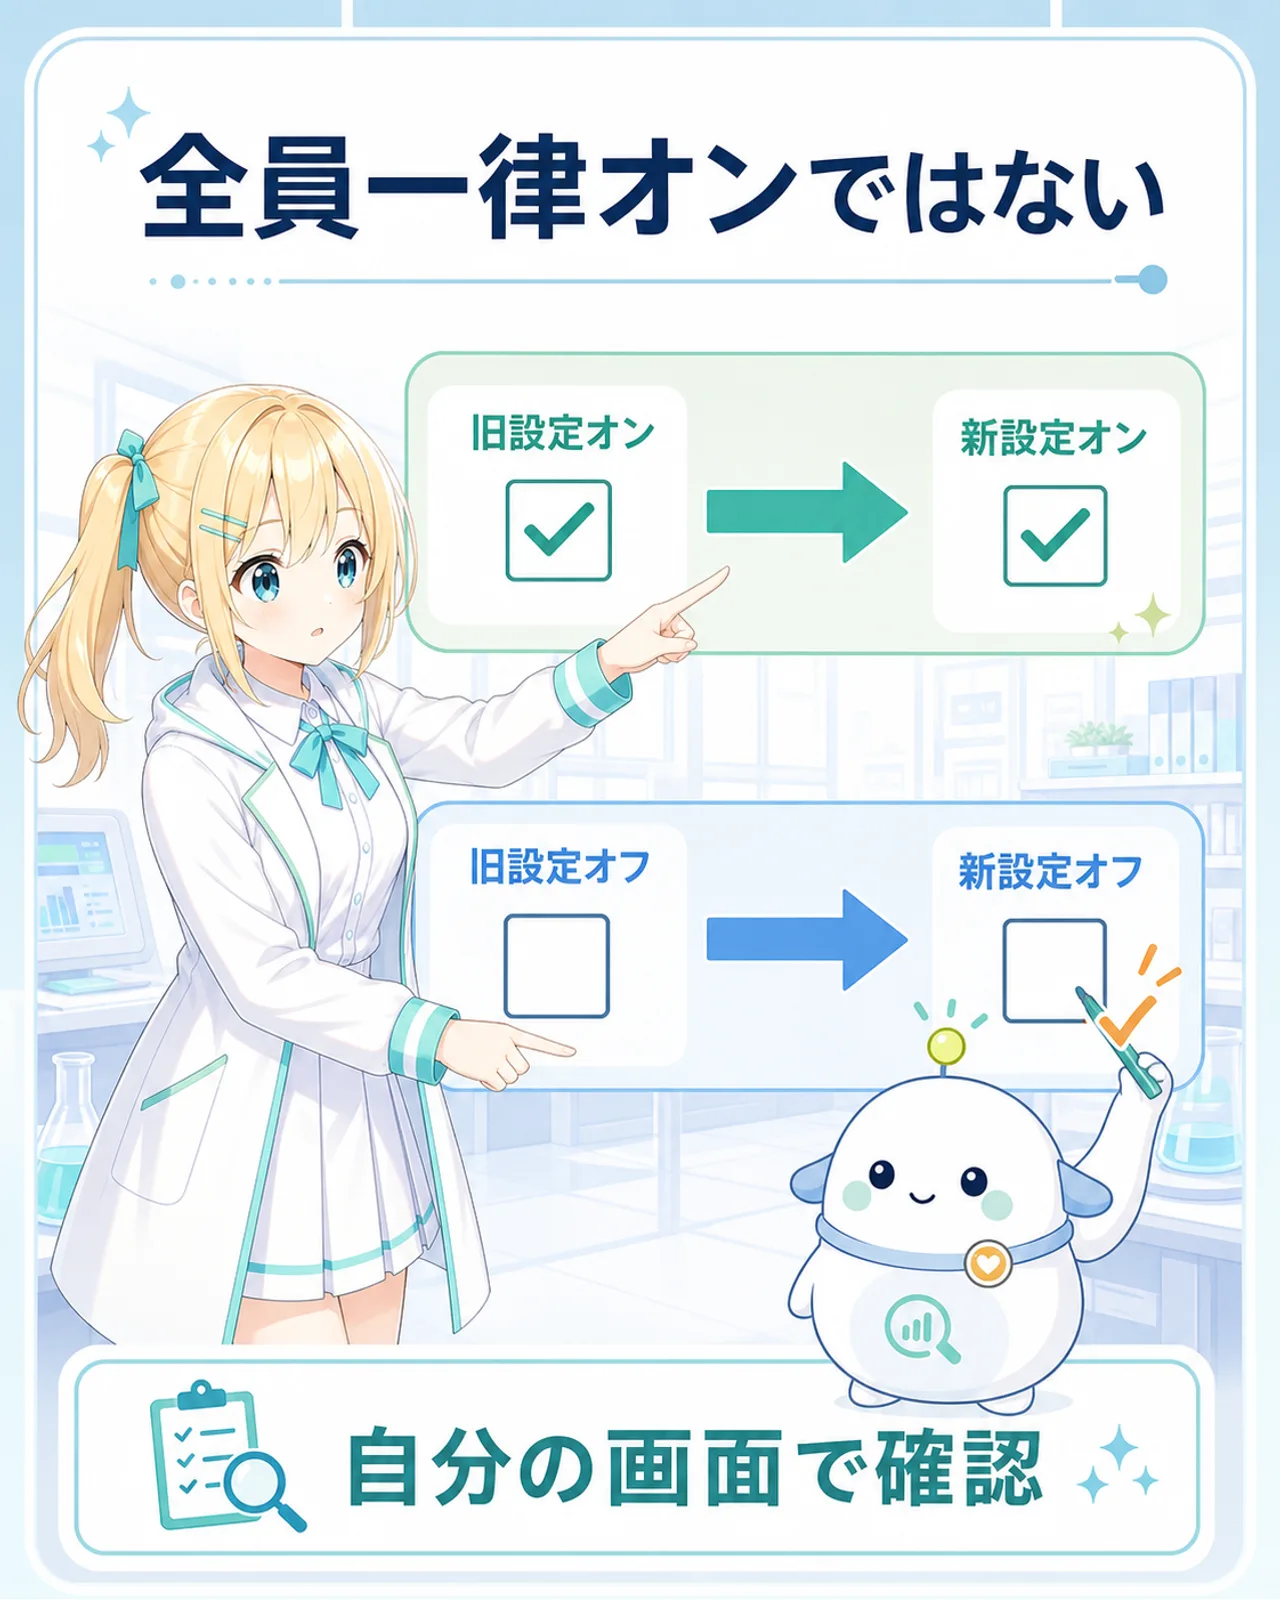
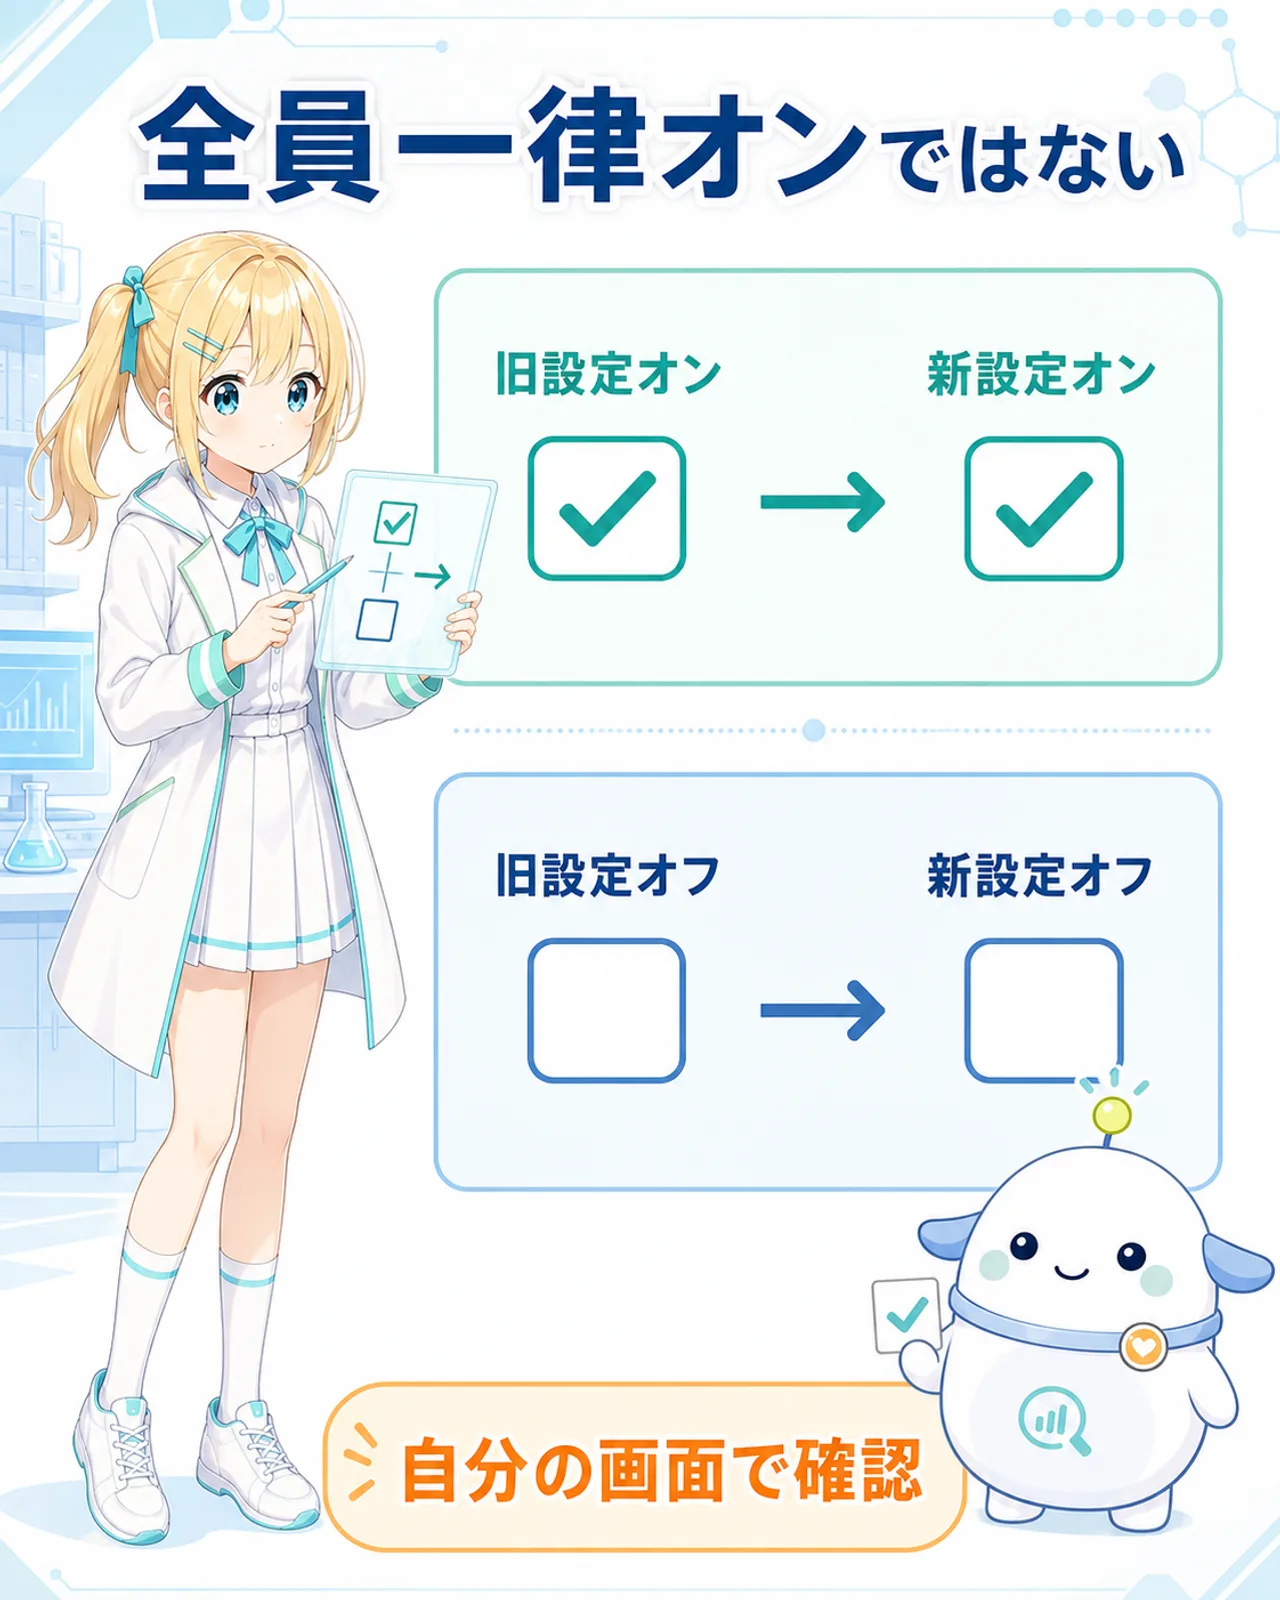
fix: block distorted character limbs

diff --git a/CLAUDE.md b/CLAUDE.md
@@ -18,7 +18,7 @@
 
 **画像の「同一性」と「演出」を分離する（2026-07-20）**: キャラ同一性のblocking判定は、ひまりの顔・体型・髪型／らぼまるの耳ビレ・首輪・アンテナ・ハート・卵型体型など、`assets/characters/character-sheet.md` の認識アンカーに限る。衣装・小道具・ポーズ・背景は記事テーマを伝えるために積極的に変え、これらの差をキャラ不一致や工房fallbackの理由にしない。新規記事の `slide_plan.md` は `## 演出ブロック` を必須とし、衣装・小道具・ポーズ・背景・演出根拠・スライド演出方針をPhase Aで自動生成する。独立検品はアンカー不一致をblocking、演出の弱さをwarningとして分ける。サムネは標準衣装の棒立ち・汎用背景・指さし説明だけを避け、道具を実際に使う体験図にする。本文スライドも小道具・動き・背景をテーマに合わせ、衣装を変える場合は記事内で一貫させる。次の立ち会い記事では、機械検品後にHiroが演出の質を実物レビューして採否を決める。
 
-**身体構造と画像経路の公開ブロック（2026-07-25）**: 認識アンカーとは別に、四肢・手指・顔・物体との融合を全画像で検査する。明確な手/腕/脚の本数異常は warning ではなく `needs_revision` とし、対象画像だけCodex CLIで1回再生成して再検品する。らぼまるは腕・手・脚・足が左右各1つで、それ以外の突起はアンテナ1本と左右の耳ビレだけ。画像生成の標準経路は `codex exec` とし、工房チャットは既定のfallback条件が記録された場合だけ使う。**工房fallbackが1回でも発動した完了報告には「工房退避あり（条件名）」を必須記載**し、発動しなかった場合も「工房退避なし（Codex exec）」と明記する。無記載のまま経路を変更してはならない。
+**身体構造と画像経路の公開ブロック（2026-07-25）**: 認識アンカーとは別に、四肢・手指・顔・物体との融合を全画像で検査する。明確な手/腕/脚の本数異常に加え、腕・脚の不自然な長さ/細さ、触手状・ホース状・急なS字、付け根・関節の破綻、不快なシルエットも warning ではなく `needs_revision` とし、対象画像だけCodex CLIで1回再生成して再検品する。らぼまるは腕・手・脚・足が左右各1つで、それ以外の突起はアンテナ1本と左右の耳ビレだけ。画像生成の標準経路は `codex exec` とし、工房チャットは既定のfallback条件が記録された場合だけ使う。**工房fallbackが1回でも発動した完了報告には「工房退避あり（条件名）」を必須記載**し、発動しなかった場合も「工房退避なし（Codex exec）」と明記する。無記載のまま経路を変更してはならない。
 
 > 詳細： [`docs/user_directed_mode.md`](docs/user_directed_mode.md) ／ Phase A 入力フロー: [`docs/phase_a_input_flow.md`](docs/phase_a_input_flow.md) ／ **Article Refinement Loop: [`docs/article_refinement_loop.md`](docs/article_refinement_loop.md)** ／ X 投稿フロー： [`docs/x_post_workflow.md`](docs/x_post_workflow.md) ／ queue 状態： [`docs/queue_states.md`](docs/queue_states.md)
 

diff --git a/logs/article/20260725-labomaru-arm-proportion-repair.md b/logs/article/20260725-labomaru-arm-proportion-repair.md
@@ -1,0 +1,43 @@
+# らぼまる腕比率修正レポート（2026-07-25）
+
+## 対象
+
+- 記事: `202607-google-july-30-terms-media-settings`
+- 画像: `slide05-inheritance.webp`（見出し「全員一律オンではない」）
+- 指摘: らぼまるの右腕が細長いS字状に伸び、正本の短く丸い腕から逸脱していた。
+
+## Before / After
+
[3 lines of base64/hex data omitted]
+- 公開WebP寸法: 1280 × 1600
+- 修正内容: らぼまるを右下の確認対象へ近づけ、左右各1本の腕を短く・太く・丸くした。付け根を体側へ自然につなぎ、遠方へ伸ばす構図を廃止。見出し・4つの設定ラベル・下部注記は維持。
+
+## 検品
+
+- 独立Codex検品: PASS
+- 身体構造: らぼまるは1体のみ。左右各1本の短く太く丸い腕、左右各1つの足、アンテナ1本、左右の青い耳ビレ。触手状・ホース状・急なS字・不自然な付け根・物体融合なし。
+- 文字: 「全員一律オンではない」「旧設定オン」「新設定オン」「旧設定オフ」「新設定オフ」「自分の画面で確認」を完全一致で確認。
+- 正本アンカー: ひまり・らぼまるとも一致。
+- 記事内全数再確認: サムネ＋残り7枚を同じ「長さ・太さ・付け根・シルエット」基準で目視し、同種の明確な破綻なし。
+
+## 経路・時間・使用量
+
+- 生成経路: Codex CLI（`codex exec`、正本2枚添付）
+- 工房チャット: 未使用
+- 1回目: 31.4秒で `cli_abnormal_exit`。fallback条件は記録されたが、工房へは退避せず正規経路を再実行。
+- 2回目: 401.5秒。腕は改善したが、らぼまるが2体へ増えたため不採用。
+- 3回目: 334.9秒。採用。
+- 画像生成合計: 767.8秒（約12分48秒）
+- 成功2回の使用量合計: input 1,895,135 / cached input 1,733,888 / output 6,275 / reasoning output 1,080 tokens
+- 独立検品: 30.4秒、Codex表示 28,519 tokens
+
+## 恒久対策
+
+- キャラクターシート: らぼまるの腕を「短く・太く・丸い」、胴体幅のおおむね4分の1以内と明文化。触手状・ホース状・急なS字・過度な伸長を禁止。
+- slide_plan: 小道具や操作対象を自然に届く距離へ置き、腕を構図都合で伸長させない指定を自動追加。
+- 生成プロンプト: 四肢の本数だけでなく、長さ・太さ・付け根・関節・シルエットを保存前に自己確認。
+- 独立検品 / factcheck: 不自然な長さ・細さ、触手状シルエット、付け根・関節の破綻を `needs_revision`（公開ブロック）へ昇格。
+- 自動再試行判定: 「触手」「ホース状」「にょき」「S字」「長すぎ/細すぎ」「付け根/関節」「不快なシルエット」を対象画像の再生成トリガーへ追加。
+- キャラ重複予防: slide_planに明示がない限り各キャラ1人/1体とし、複製・分身を禁止。

diff --git a/assets/characters/character-sheet.md b/assets/characters/character-sheet.md
@@ -132,9 +132,10 @@
 ## 身体構造（全画像で固定・公開ブロック）
 
 - **ひまり**: 腕は左右各1本（合計2本）、手は左右各1つ（合計2つ）、脚は左右各1本（合計2本）。手が見える構図では原則5本指とし、余分な手指、二重化、途中から生える腕、顔や小道具との融合を禁止する。
-- **らぼまる**: 腕・手は左右各1本（合計2本）、脚・足は左右各1本（合計2本）。体から出る腕以外の突起は、頭頂の黄緑アンテナ1本と左右の青い耳ビレだけ。小道具を持つための謎の手・腕を追加しない。
-- 小道具は必ず既存の手で持つ。生成指示では「片手で持つ」か「両手で持つ」かを明記し、空いている手の位置も指定する。
-- 明確な四肢数の異常、手指・腕の重複、顔の破綻、身体と物体の不自然な融合は、認識アンカーとは別の **needs_revision（公開ブロック）** とする。手が描かれている画像は手を最優先で数える。
+- **らぼまる**: 腕・手は左右各1本（合計2本）、脚・足は左右各1本（合計2本）。体から出る腕以外の突起は、頭頂の黄緑アンテナ1本と左右の青い耳ビレだけ。小道具を持つための謎の手・腕を追加しない。腕は正本同様に**短く・太く・丸い**形で、体側から見える長さは胴体幅のおおむね4分の1以内を目安とする。細長い触手状・ホース状・急なS字・にょきっと伸びる腕は禁止する。
+- 小道具は必ず既存の手で持つ。生成指示では「片手で持つ」か「両手で持つ」かを明記し、空いている手の位置も指定する。小道具や操作対象は自然に手が届く距離へ置き、構図に合わせて腕を伸長させない。
+- 同一キャラクターを複数パネルへ明示的に登場させる指定がない限り、ひまり・らぼまるは各1人/1体だけ描く。構図上の穴埋めとして複製・分身を追加しない。
+- 明確な四肢数の異常、手指・腕の重複、顔の破綻、身体と物体の不自然な融合に加え、**腕・脚の不自然な長さ/細さ、付け根・関節の破綻、触手状の不快なシルエット**は、認識アンカーとは別の **needs_revision（公開ブロック）** とする。手が描かれている画像は手を最優先で数える。単に体や画面外に隠れて見えない四肢は、それだけで欠損判定しない。
 
 ## 画像仕様（共通）
 
